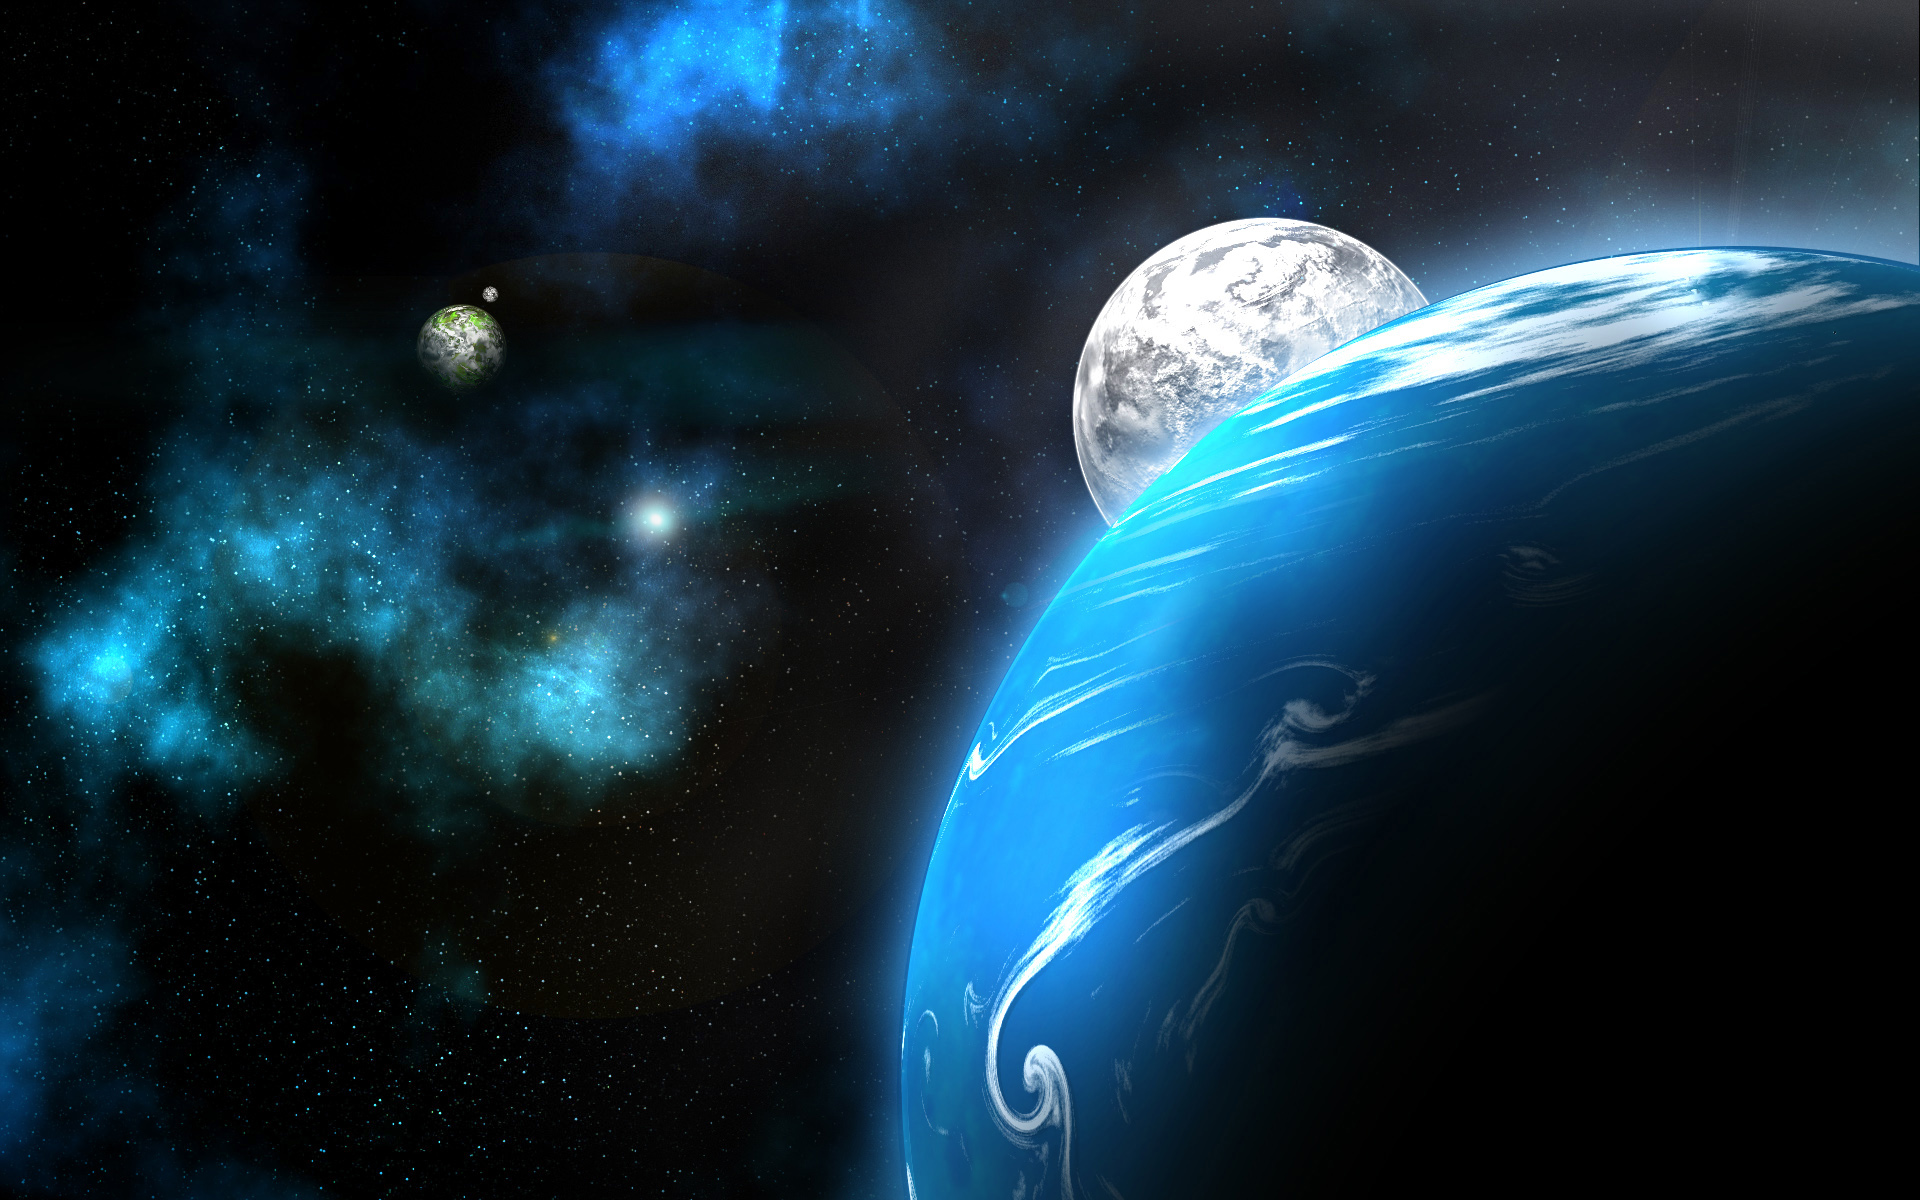
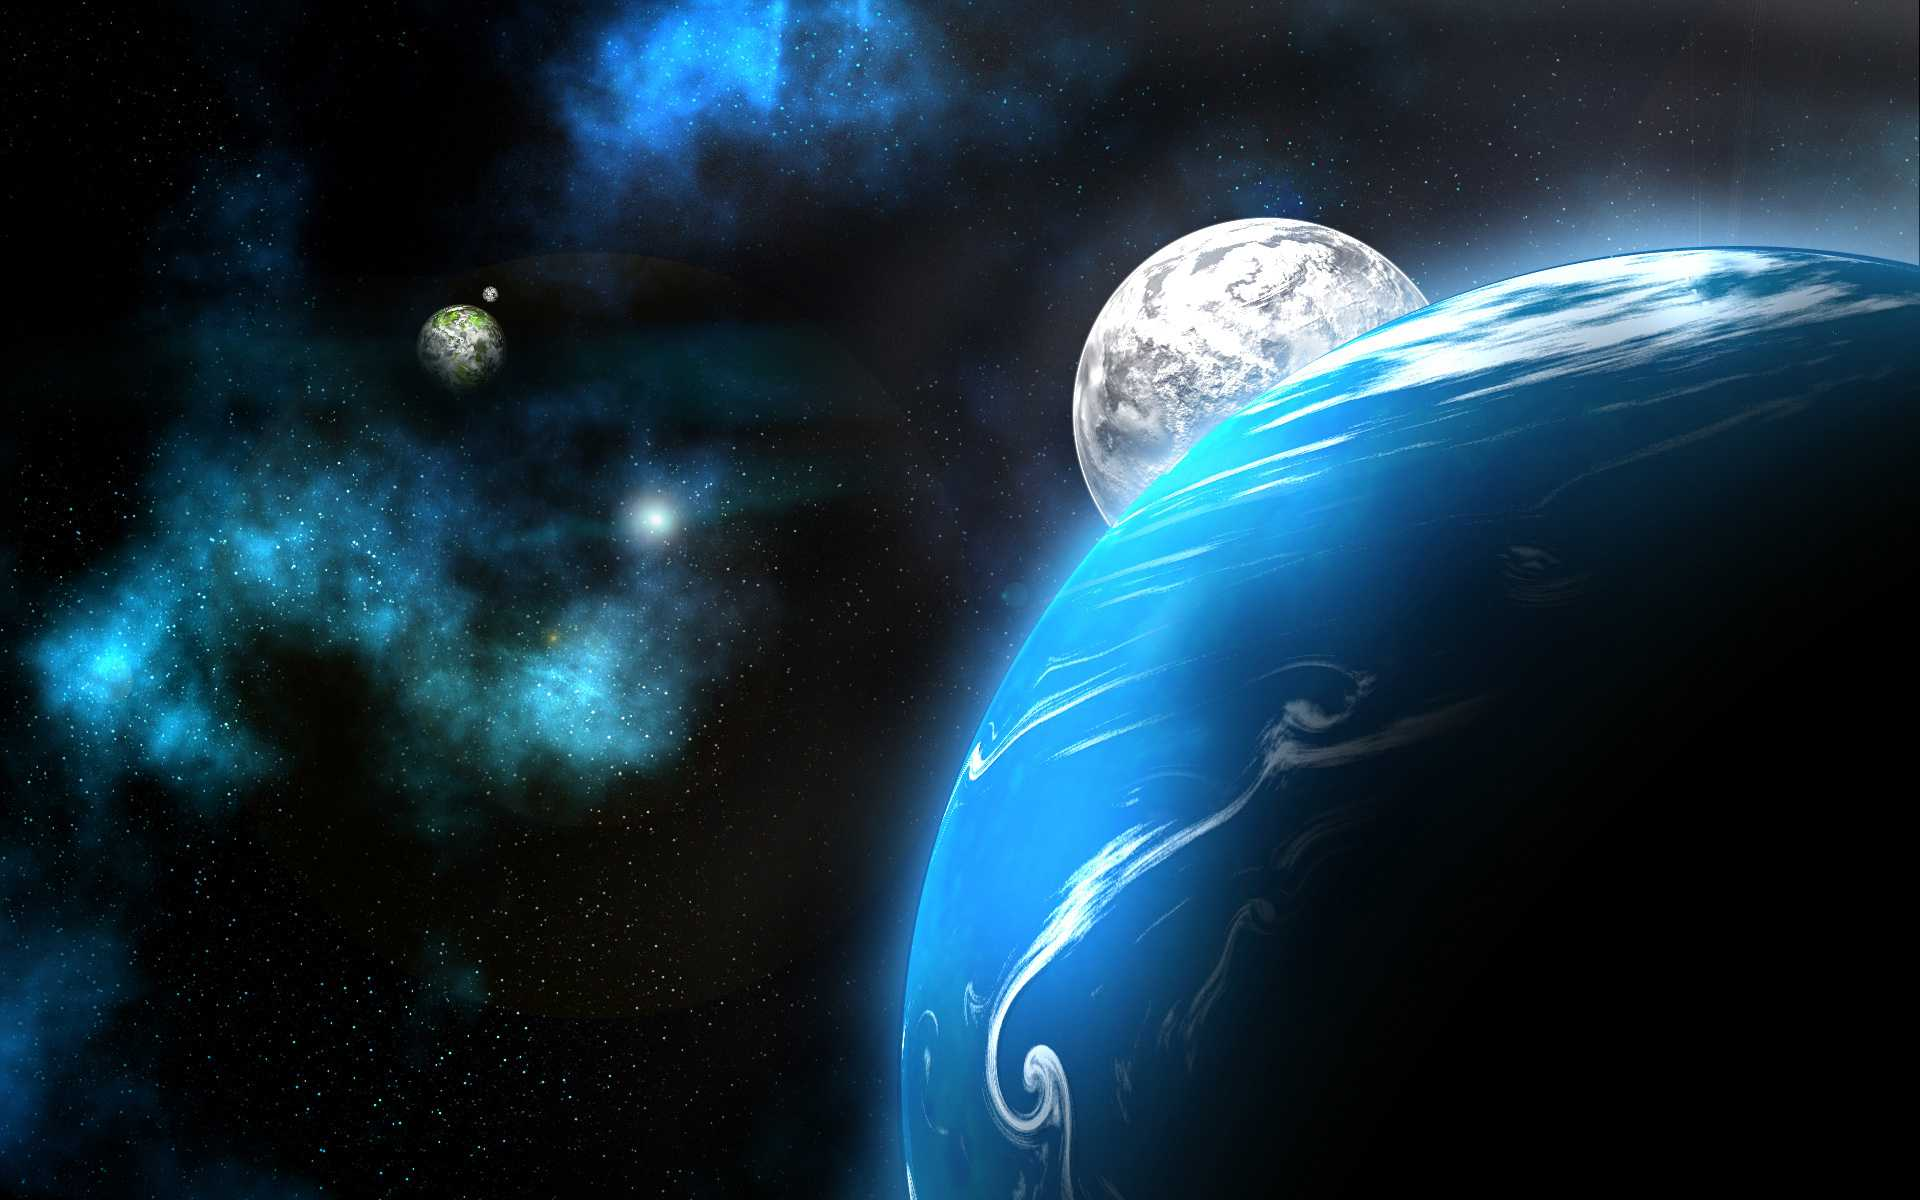
Reduced the size of the 'Dead' and 'Astro' skin background images.
--HG--
rename : LanLordz/Skins/Dead/Background.png => LanLordz/Skins/Dead/Background.jpg

diff --git a/LanLordz/Skins/Dead/dead.css b/LanLordz/Skins/Dead/dead.css
@@ -8,7 +8,7 @@
 html{padding:0;margin:0;}
 h1,h2,h3,h4,h5{font-family:TwentyEightDaysLater;}
 img{border:none;}
-body{background:Black url(Background.png) no-repeat fixed center top;font-family:Sans-Serif;color:White;text-align:center;padding:0;margin:0;}
+body{background:Black url(Background.jpg) no-repeat fixed center top;font-family:Sans-Serif;color:White;text-align:center;padding:0;margin:0;}
 a:link,a:visited,a:active{color:Red;text-decoration:none;}
 a:hover{color:Red;text-decoration:underline;}
 #surround{padding:0;margin:0 auto 0 auto;width:1000px;}
